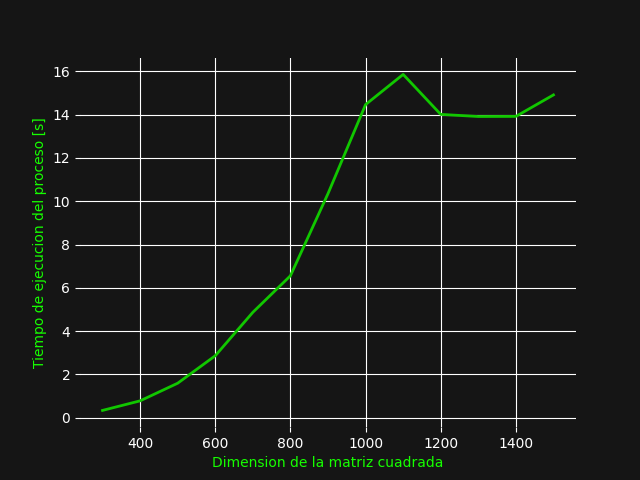
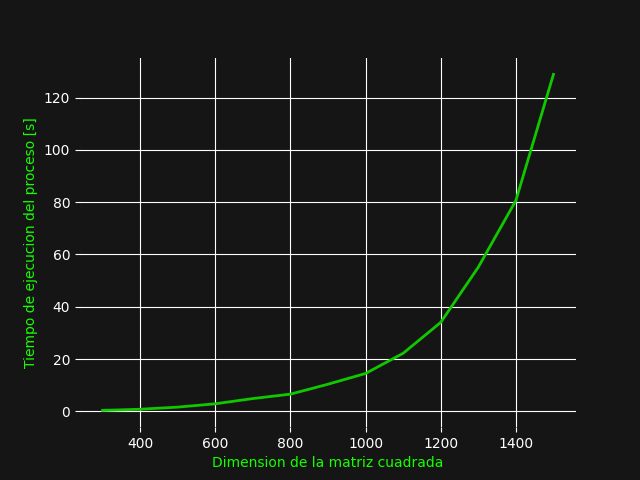
1

diff --git a/results/graphTime.py b/results/graphTime.py
@@ -4,7 +4,7 @@ import numpy as np
 from matplotlib import cycler
 
 
-languaje = 'cpp'
+languaje = 'assembly'
 data = pd.read_excel('./results.xlsx', sheet_name=languaje)
 
 color1 = '#11c700'

diff --git a/README.md b/README.md
@@ -6,9 +6,9 @@
 
 ## Objetivos:
 
-- [] Realizar un análisis comparativo de las diferentes tecnologías para el manejo de memoria
-- [] Implementar en diferentes lenguajes de programación un programa para la multiplicación de matrices
-- [] Comparar el uso de memoria y la eficiencia entre lenguajes de programación 
+- [x] Realizar un análisis comparativo de las diferentes tecnologías para el manejo de memoria
+- [x] Implementar en diferentes lenguajes de programación un programa para la multiplicación de matrices
+- [x] Comparar el uso de memoria y la eficiencia entre lenguajes de programación 
 
 ## Metodología:
 
